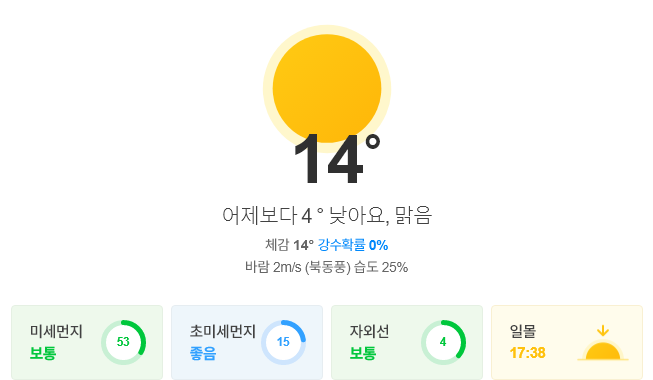
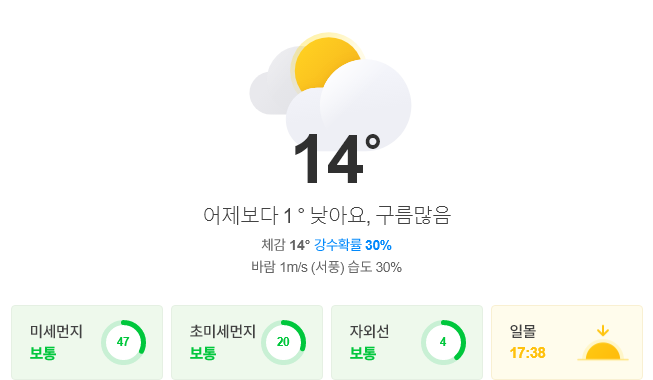
update result

diff --git a/README.md b/README.md
@@ -1,13 +1,13 @@
-##  2020-10-29 12:07:27   목요일 
-##### 날씨   -   어제보다 4 ° 낮아요, 맑음
+##  2020-10-29 16:02:37   목요일 
+##### 날씨   -   어제보다 1 ° 낮아요, 구름많음
 <center><img src="../img/naver_weather_week.png"></center>
 ----
 ----
 ##### 지수
 <table border="1" bordercolor="blue" align = "center" >
 <tr align = "right" > <td>Item</td><td>Point</td><td>Diff</td><td>Rate</td><td>Buy</td><td>Sell</td><td>...</td>  </tr>
-<tr align = "right" > <td>KOSPI</td><td>2,303.0</td><td>-42.26</td><td><font size="3" color="blue" >-1.8%</font> </td><td><font size="3" color="black">2,000</font></td><td><font size="3" color="black">3,000</font></td><td>0</td>  </tr>
-<tr align = "right" > <td>KOSDAQ</td><td>799.09</td><td>-7.11</td><td><font size="3" color="blue" >-0.88%</font> </td><td><font size="3" color="black">0</font></td><td><font size="3" color="black">0</font></td><td>0</td>  </tr>
+<tr align = "right" > <td>KOSPI</td><td>2,326.67</td><td>-18.59</td><td><font size="3" color="blue" >-0.79%</font> </td><td><font size="3" color="black">2,000</font></td><td><font size="3" color="black">3,000</font></td><td>0</td>  </tr>
+<tr align = "right" > <td>KOSDAQ</td><td>813.93</td><td>7.73</td><td><font size="3" color="red" >0.96%</font> </td><td><font size="3" color="black">0</font></td><td><font size="3" color="black">0</font></td><td>0</td>  </tr>
 </table>
 ----
 ##### 세계
@@ -16,14 +16,14 @@
 <tr align = "right" > <td>DOW</td><td>26,519.95</td><td>-943.24</td><td><font size="3" color="blue" >-3.43%</font></td><td><font size="3" color="black">0</font></td><td><font size="3" color="black">0</font></td><td>0</td>  </tr>
 <tr align = "right" > <td>NASDAQ</td><td>11,004.87</td><td>-426.48</td><td><font size="3" color="blue" >-3.73%</font></td><td><font size="3" color="black">0</font></td><td><font size="3" color="black">0</font></td><td>0</td>  </tr>
 <tr align = "right" > <td>S&P</td><td>3,271.03</td><td>-119.65</td><td><font size="3" color="blue" >-3.53%</font></td><td><font size="3" color="black">0</font></td><td><font size="3" color="black">0</font></td><td>0</td>  </tr>
-<tr align = "right" > <td>SHANHAI</td><td>3,259.12</td><td>-10.11</td><td><font size="3" color="blue" >-0.31%</font></td><td><font size="3" color="black">0</font></td><td><font size="3" color="black">0</font></td><td>0</td>  </tr>
-<tr align = "right" > <td>INDIA</td><td>39,922.46</td><td>-599.64</td><td><font size="3" color="blue" >-1.48%</font></td><td><font size="3" color="black">0</font></td><td><font size="3" color="black">0</font></td><td>0</td>  </tr>
+<tr align = "right" > <td>SHANHAI</td><td>3,283.05</td><td>13.81</td><td><font size="3" color="red" >0.42%</font></td><td><font size="3" color="black">0</font></td><td><font size="3" color="black">0</font></td><td>0</td>  </tr>
+<tr align = "right" > <td>INDIA</td><td>39,925.43</td><td>2.97</td><td><font size="3" color="red" >0.01%</font></td><td><font size="3" color="black">0</font></td><td><font size="3" color="black">0</font></td><td>0</td>  </tr>
 </table>
 ----
 ##### 시장
 <table border="1" bordercolor="blue" align = "center" >
 <tr align = "right" > <td>Item</td><td>Price</td><td>Diff</td><td>Rate</td><td>Buy</td><td>Sell</td><td>...</td>  </tr>
-<tr align = "right" > <td>USD</td><td>1,135.0</td><td>1.5</td><td><font size="3" color="red">0.13%</font></td><td><font size="3" color="black">1,110</font></td><td><font size="3" color="black">0</font></td><td>0</td>  </tr>
+<tr align = "right" > <td>USD</td><td>1,132.0</td><td>-1.0</td><td><font size="3" color="blue">-0.09%</font></td><td><font size="3" color="black">1,110</font></td><td><font size="3" color="black">0</font></td><td>0</td>  </tr>
 <tr align = "right" > <td>WTI</td><td>37.39</td><td>-2.18</td><td><font size="3" color="blue">-5.5%</font></td><td><font size="3" color="black">29.0</font></td><td><font size="3" color="black">0</font></td><td>0</td>  </tr>
 <tr align = "right" > <td>GOLD</td><td>1,876.0</td><td>-32.7</td><td><font size="3" color="blue">-1.71%</font></td><td><font size="3" color="black">0</font></td><td><font size="3" color="black">0</font></td><td>0</td>  </tr>
 </table>
@@ -31,23 +31,23 @@
 ##### 주가
 <table border="1" bordercolor="blue" align = "center" >
 <tr align = "right" > <td>Item</td><td>Price</td><td>Diff</td><td>Rate</td><td>Purchased</td><td>Sell</td><td>Buy</td>  </tr>
-<tr align = "right" > <td>한국 전력</td><td>20,250</td><td>-300</td><td><font size="3" color="blue">-1.46%</font></td><td>25,720</td><td><font size="3" color="black">30,000</font></td><td><font size="3" color="black">14,000</font></td>  </tr>
-<tr align = "right" > <td>삼성엔지니어.</td><td>10,350</td><td>-300</td><td><font size="3" color="blue">-2.82%</font></td><td>18,935</td><td><font size="3" color="black">20,000</font></td><td><font size="3" color="black">8,000</font></td>  </tr>
-<tr align = "right" > <td>CJ CGV</td><td>20,250</td><td>-350</td><td><font size="3" color="blue">-1.7%</font></td><td>34,895</td><td><font size="3" color="black">36,000</font></td><td><font size="3" color="black">0</font></td>  </tr>
-<tr align = "right" > <td>아모레퍼시픽</td><td>165,500</td><td>4,500</td><td><font size="3" color="red">2.8%</font></td><td>235,350</td><td><font size="3" color="black">240,000</font></td><td><font size="3" color="black">130,000</font></td>  </tr>
-<tr align = "right" > <td>한화</td><td>24,850</td><td>-650</td><td><font size="3" color="blue">-2.55%</font></td><td>25,550</td><td><font size="3" color="black">30,000</font></td><td><font size="3" color="black">20,000</font></td>  </tr>
-<tr align = "right" > <td>NAVER</td><td>298,000</td><td>-500</td><td><font size="3" color="blue">-0.17%</font></td><td>147,200</td><td><font size="3" color="black">400,000</font></td><td><font size="3" color="black">150,000</font></td>  </tr>
-<tr align = "right" > <td>LG 화학우</td><td>318,000</td><td>-3,500</td><td><font size="3" color="blue">-1.09%</font></td><td>202,490</td><td><font size="3" color="black">500,000</font></td><td><font size="3" color="black">200,000</font></td>  </tr>
-<tr align = "right" > <td>스튜디오드래.</td><td>79,000</td><td>-1,600</td><td><font size="3" color="blue">-1.99%</font></td><td>81,243</td><td><font size="3" color="black">100,000</font></td><td><font size="3" color="black">78,000</font></td>  </tr>
-<tr align = "right" > <td>글로벌럭셔리</td><td>12,145</td><td>-310</td><td><font size="3" color="blue">-2.49%</font></td><td>0</td><td><font size="3" color="black">15,000</font></td><td><font size="3" color="black">10,000</font></td>  </tr>
-<tr align = "right" > <td>QV미국IT</td><td>23,290</td><td>-910</td><td><font size="3" color="blue">-3.76%</font></td><td>0</td><td><font size="3" color="black">30,000</font></td><td><font size="3" color="black">20,000</font></td>  </tr>
-<tr align = "right" > <td>호텔 신라</td><td>74,500</td><td>-1,200</td><td><font size="3" color="blue">-1.59%</font></td><td>72,800</td><td><font size="3" color="black">100,000</font></td><td><font size="3" color="black">70,000</font></td>  </tr>
-<tr align = "right" > <td>S-Oil</td><td>55,300</td><td>-1,600</td><td><font size="3" color="blue">-2.81%</font></td><td>62,842</td><td><font size="3" color="black">100,000</font></td><td><font size="3" color="black">50,000</font></td>  </tr>
-<tr align = "right" > <td>LG전자</td><td>86,800</td><td>-3,200</td><td><font size="3" color="blue">-3.56%</font></td><td>82,022</td><td><font size="3" color="black">100,000</font></td><td><font size="3" color="black">60,000</font></td>  </tr>
-<tr align = "right" > <td>지역난방공사</td><td>36,600</td><td>-800</td><td><font size="3" color="blue">-2.14%</font></td><td>43,590</td><td><font size="3" color="black">60,000</font></td><td><font size="3" color="black">30,000</font></td>  </tr>
-<tr align = "right" > <td>KOEDX은행</td><td>5,565</td><td>-125</td><td><font size="3" color="blue">-2.2%</font></td><td>5,178</td><td><font size="3" color="black">6,000</font></td><td><font size="3" color="black">4,500</font></td>  </tr>
-<tr align = "right" > <td>삼성 전자우</td><td>51,600</td><td>-1,300</td><td><font size="3" color="blue">-2.46%</font></td><td>48,250</td><td><font size="3" color="black">56,000</font></td><td><font size="3" color="black">45,000</font></td>  </tr>
-<tr align = "right" > <td>한화에어로스.</td><td>25,400</td><td>-750</td><td><font size="3" color="blue">-2.87%</font></td><td>25,700</td><td><font size="3" color="black">30,000</font></td><td><font size="3" color="black">24,000</font></td>  </tr>
-<tr align = "right" > <td>한국금융지주</td><td>70,500</td><td>-1,800</td><td><font size="3" color="blue">-2.49%</font></td><td>0</td><td><font size="3" color="black">82,000</font></td><td><font size="3" color="black">60,000</font></td>  </tr>
+<tr align = "right" > <td>한국 전력</td><td>20,300</td><td>-250</td><td><font size="3" color="blue">-1.22%</font></td><td>25,720</td><td><font size="3" color="black">30,000</font></td><td><font size="3" color="black">14,000</font></td>  </tr>
+<tr align = "right" > <td>삼성엔지니어.</td><td>10,400</td><td>-250</td><td><font size="3" color="blue">-2.35%</font></td><td>18,935</td><td><font size="3" color="black">20,000</font></td><td><font size="3" color="black">8,000</font></td>  </tr>
+<tr align = "right" > <td>CJ CGV</td><td>20,450</td><td>-150</td><td><font size="3" color="blue">-0.73%</font></td><td>34,895</td><td><font size="3" color="black">36,000</font></td><td><font size="3" color="black">0</font></td>  </tr>
+<tr align = "right" > <td>아모레퍼시픽</td><td>165,000</td><td>4,000</td><td><font size="3" color="red">2.48%</font></td><td>235,350</td><td><font size="3" color="black">240,000</font></td><td><font size="3" color="black">130,000</font></td>  </tr>
+<tr align = "right" > <td>한화</td><td>25,100</td><td>-400</td><td><font size="3" color="blue">-1.57%</font></td><td>25,550</td><td><font size="3" color="black">30,000</font></td><td><font size="3" color="black">20,000</font></td>  </tr>
+<tr align = "right" > <td>NAVER</td><td>298,500</td><td>0</td><td><font size="3" color="black">0.0%</font></td><td>147,200</td><td><font size="3" color="black">400,000</font></td><td><font size="3" color="black">150,000</font></td>  </tr>
+<tr align = "right" > <td>LG 화학우</td><td>324,000</td><td>2,500</td><td><font size="3" color="red">0.78%</font></td><td>202,490</td><td><font size="3" color="black">500,000</font></td><td><font size="3" color="black">200,000</font></td>  </tr>
+<tr align = "right" > <td>스튜디오드래.</td><td>79,800</td><td>-800</td><td><font size="3" color="blue">-0.99%</font></td><td>81,243</td><td><font size="3" color="black">100,000</font></td><td><font size="3" color="black">78,000</font></td>  </tr>
+<tr align = "right" > <td>글로벌럭셔리</td><td>12,205</td><td>-250</td><td><font size="3" color="blue">-2.01%</font></td><td>0</td><td><font size="3" color="black">15,000</font></td><td><font size="3" color="black">10,000</font></td>  </tr>
+<tr align = "right" > <td>QV미국IT</td><td>23,400</td><td>-800</td><td><font size="3" color="blue">-3.31%</font></td><td>0</td><td><font size="3" color="black">30,000</font></td><td><font size="3" color="black">20,000</font></td>  </tr>
+<tr align = "right" > <td>호텔 신라</td><td>75,200</td><td>-500</td><td><font size="3" color="blue">-0.66%</font></td><td>72,800</td><td><font size="3" color="black">100,000</font></td><td><font size="3" color="black">70,000</font></td>  </tr>
+<tr align = "right" > <td>S-Oil</td><td>55,600</td><td>-1,300</td><td><font size="3" color="blue">-2.28%</font></td><td>62,842</td><td><font size="3" color="black">100,000</font></td><td><font size="3" color="black">50,000</font></td>  </tr>
+<tr align = "right" > <td>LG전자</td><td>87,200</td><td>-2,800</td><td><font size="3" color="blue">-3.11%</font></td><td>82,022</td><td><font size="3" color="black">100,000</font></td><td><font size="3" color="black">60,000</font></td>  </tr>
+<tr align = "right" > <td>지역난방공사</td><td>37,100</td><td>-300</td><td><font size="3" color="blue">-0.8%</font></td><td>43,590</td><td><font size="3" color="black">60,000</font></td><td><font size="3" color="black">30,000</font></td>  </tr>
+<tr align = "right" > <td>KOEDX은행</td><td>5,615</td><td>-75</td><td><font size="3" color="blue">-1.32%</font></td><td>5,178</td><td><font size="3" color="black">6,000</font></td><td><font size="3" color="black">4,500</font></td>  </tr>
+<tr align = "right" > <td>삼성 전자우</td><td>51,700</td><td>-1,200</td><td><font size="3" color="blue">-2.27%</font></td><td>48,250</td><td><font size="3" color="black">56,000</font></td><td><font size="3" color="black">45,000</font></td>  </tr>
+<tr align = "right" > <td>한화에어로스.</td><td>25,600</td><td>-550</td><td><font size="3" color="blue">-2.1%</font></td><td>25,700</td><td><font size="3" color="black">30,000</font></td><td><font size="3" color="black">24,000</font></td>  </tr>
+<tr align = "right" > <td>한국금융지주</td><td>71,400</td><td>-900</td><td><font size="3" color="blue">-1.24%</font></td><td>0</td><td><font size="3" color="black">82,000</font></td><td><font size="3" color="black">60,000</font></td>  </tr>
 </table>
 ----
